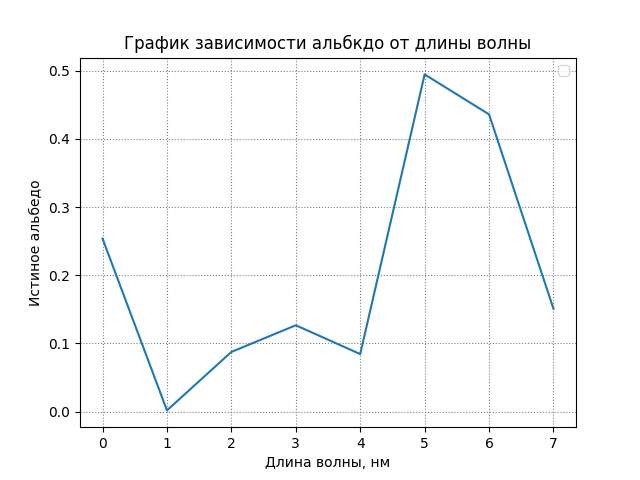
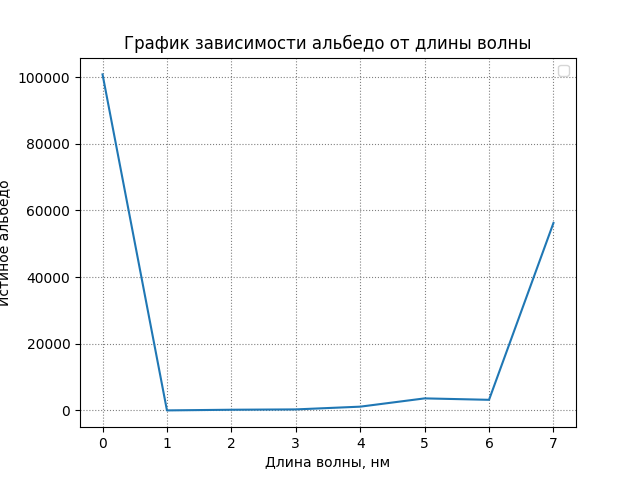
spectr done

diff --git a/12-spectr/12-3-spectr-dataProcessing.py b/12-spectr/12-3-spectr-dataProcessing.py
@@ -1,0 +1,119 @@
+from os import read
+import numpy as np
+import matplotlib.pyplot as plt
+import time
+import os
+import imageio
+from io import BytesIO
+
+
+# Enter directory of files
+dir = 'C:/Users/ksyurko/Desktop/Repositories/get/12-spectr/DATA/'
+
+
+# Soft files by colors
+files = os.listdir(dir + 'newDATAspectr/')
+
+files[0] = 'White_FullSpectr.png'
+files[1] = 'Red_FullSpectr.png'
+files[2] = 'Orange_FullSpectr.png'
+files[3] = 'Yellow_FullSpectr.png'
+files[4] = 'Lightgreen_FullSpectr.png'
+files[5] = 'Green_FullSpectr.png'
+files[6] = 'Blue_FullSpectr.png'
+files[7] = 'darkBlue_FullSpectr.png'
+files[8] = 'Crimson_FullSpectr.png'
+print (files)
+
+# Load data from files, cut and make monochrome pictures
+colors = []
+
+for i in range (len(files)):
+    colors.append(imageio.imread(dir + 'newDATAspectr/' + files[i]))
+    colors[i] = colors[i][310:443, 468:540, :]
+
+height = colors[1].shape [0]
+width = colors[1].shape [1]
+
+# Load intervals (in pixels)
+intervals = []
+
+for i in range (8): 
+    interval = np.loadtxt(dir + 'interval_{}'.format(i))
+    intervals.append(interval)
+
+allColorsIL = []
+whiteIL = []
+allColorsAL = []
+
+# Calculate Intensity and albedo of colors
+for i in range (len(colors)):
+    oneColorIL = []
+    oneColorAL = []
+    
+    for y in range (height):
+        OSI = 0
+        WI = 0
+
+        for x in range (width):
+                
+            if sum(colors[i][y, x, :]) > 0:
+                OSI += sum(colors[i][y, x, :])
+                WI += sum(colors[0][y, x, :])
+
+        WI = int(WI/(3*width))
+        OSI = int(OSI/(3*width))  
+        albedo = OSI/WI
+
+        oneColorAL.append(albedo) 
+
+        whiteIL.append(WI)
+        oneColorIL.append(OSI)
+
+    allColorsAL.append(oneColorAL)
+    allColorsIL.append(oneColorIL)
+    
+
+# Create intensity plot   
+rainbow = ['black', 'red', 'orange', 'yellow', 'green', 'lightgreen', 'blue', 'darkblue', 'crimson']
+
+fig = plt.figure()
+ax = fig.add_subplot(111)           
+ax.grid(color = 'gray', linestyle = ':')
+ax.set(title = '', xlabel = 'Номер пикселя (нумерация сверху вниз)', ylabel = 'Интенсивность')
+
+
+for i in range(len(colors)):
+
+    Albedofig = plt.figure()
+    Albedoax = Albedofig.add_subplot(111)           
+    Albedoax.grid(color = 'gray', linestyle = ':')
+    Albedoax.set(title = '', xlabel = 'Номер пикселя (нумерация сверху вниз)', ylabel = 'Альбедо')
+    Albedoax.plot(allColorsAL[i], label = rainbow[i], color = rainbow[i])
+    ax.legend()
+
+    Albedofig.savefig(dir + '/AlbedoPlot_{}.png'.format(rainbow[i]))
+
+    ax.plot(allColorsIL[i], label = rainbow[i], color = rainbow[i])
+
+ax.legend()
+
+plt.show()
+
+fig.savefig(dir + '/IntensityPlot.png')
+
+# Calculate albedo
+
+for i in range (len(colors)):
+    oneColorIL = []
+    
+    for y in range (height):
+        OSI = 0
+        for x in range (width):
+                
+            if sum(colors[i][y, x, :]) > 0:
+                OSI += sum(colors[i][y, x, :])
+                
+        oneColorIL.append(int(OSI/(3*width)))
+
+    allColorsIL.append(oneColorIL)

diff --git a/12-spectr/12-1-spectr-calibration.py b/12-spectr/12-1-spectr-calibration.py
@@ -8,7 +8,7 @@ from io import BytesIO
 dir = 'C:/Users/ksyurko/Desktop/Repositories/get/12-spectr/DATA/'
 
 pic = imageio.imread(dir + 'StripesSpectr/White_StripesSpectr.png')
-pic = pic[290:460, 450:560, :]
+pic = pic[310:443, 468:540, :]
 
 
 # Make monochrome
